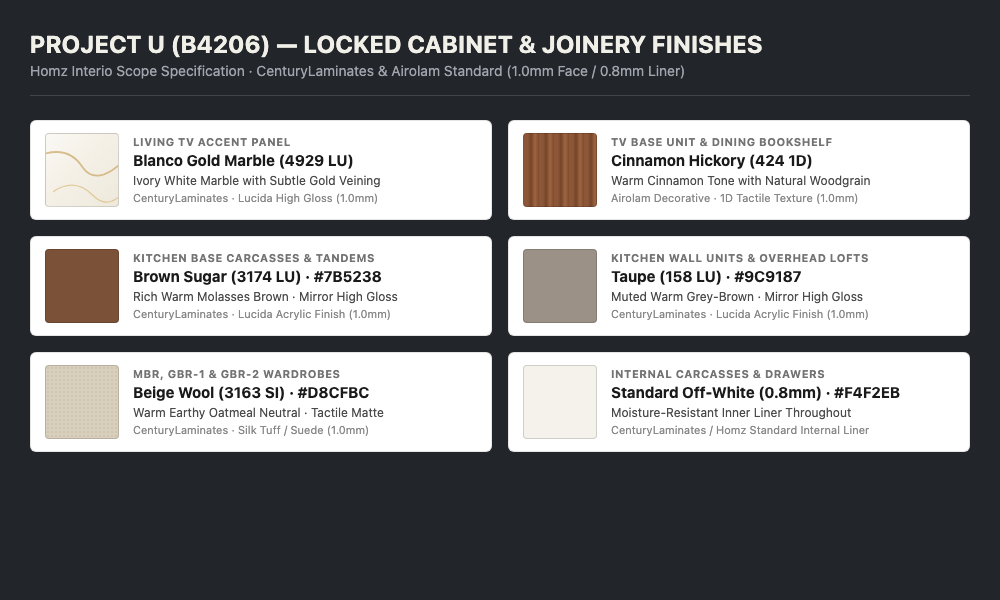
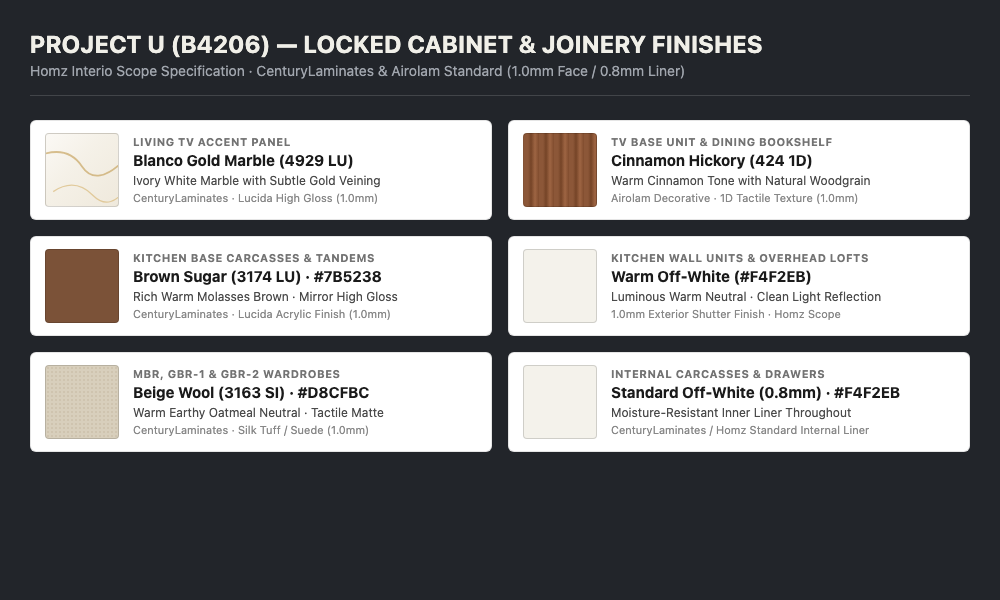
sync: update Project U notes (2026-10-17 00:17:49)

Changed region(s): [[0.496, 0.39, 0.899, 0.54]]

diff --git a/content/u-setup-interiors.md b/content/u-setup-interiors.md
@@ -55,9 +55,11 @@ updated: 2026-10-16
 
 | Room / Zone | Recommended Tone & Code (Asian Paints) | Swatch (Color) | Interior Designer Rationale & Cabinet Synergy |
 | :--- | :--- | :--- | :--- |
-| **Whole-Home Base Envelope**<br>(Foyer, Living, Dining, Drawing, Master Bed, Study BR-01, Gurudwara BR-03) | **Morning Glory (0765)**<br>(`#F0EFE8`, LRV 74) | <img src="assets/swatches/swatch-living-dining.png" alt="Morning Glory" width="140"> | Primary Japandi neutral canvas. Unifies all social and private spaces, harmonizes with `424 Cinnamon Hickory`, `3163 Beige Wool`, and Persian carpet. Replaces dark accents with continuous light reflection. |
-| **Kitchen & Utility** | **Morning Glory (0765)**<br>(`#F0EFE8`, LRV 74) · Royale Shyne | <img src="assets/swatches/swatch-living-dining.png" alt="Morning Glory" width="140"> | Identical color formula in high-scrub formulation. Cleanly links `3174 Brown Sugar` base and `158 Taupe` lofts without color breaks. |
+| **Whole-Home Base Envelope**<br>(Foyer, Living, Dining, Drawing, Master Bed, Study BR-01, Gurudwara BR-03) | **Morning Glory (0765)**<br>(`#F0EFE8`, LRV 74) | <img src="assets/swatches/swatch-living-dining.png" alt="Morning Glory" width="140"> | Primary Japandi neutral canvas in Royale Luxury Emulsion (Soft Matte). Unifies all social and private spaces, harmonizes with `424 Cinnamon Hickory`, `3163 Beige Wool`, and Persian carpet.<br><br>**Living Room Accent Note:** If you want subtle depth without coarse grit, apply a smooth, burnished limewash or mineral Roman clay. This gives a delicate, cloudy suede feel with zero grit, zero glare, and zero dust trapping. |
+| **Kitchen & Utility** | **Morning Glory (0765)**<br>(`#F0EFE8`, LRV 74) · Royale Shyne | <img src="assets/swatches/swatch-living-dining.png" alt="Morning Glory" width="140"> | Identical color formula in high-scrub formulation. Cleanly links `3174 Brown Sugar` base and `#F4F2EB` off-white overheads/lofts without color breaks. |
 | **BR-02 (Kabir's Room)** | **Misty Breeze (8307)**<br>(`#B2C2CC`, LRV 54) | <img src="assets/swatches/swatch-kabir-br02.png" alt="Misty Breeze" width="140"> | Light, desaturated coastal grey-blue. Dedicated playful accent paired with light oak joinery; washable Teflon emulsion. |
+
+* **Living & Drawing Wall Finish Guidance:** Morning Glory (0765) in Royale Luxury Emulsion (Soft Matte) is the default recommendation. If you want subtle depth without coarse grit on the living or drawing walls, apply a smooth, burnished limewash or mineral Roman clay in the identical tone. This gives a delicate, cloudy suede feel with zero grit, zero glare, and zero dust trapping.
 
 ---
 
@@ -72,7 +74,7 @@ updated: 2026-10-16
 | **Living TV Unit & Panel** | Base: `424 1D Cinnamon Hickory` | <img src="assets/swatches/laminate-424-cinnamon-hickory.png" alt="Cinnamon Hickory" width="115"> <img src="assets/swatches/laminate-4929-blanco-gold.png" alt="Blanco Gold Marble" width="115"> | Panel: `4929 LU Blanco Gold Marble` + Sofa-back texture paint | Soft-close drawers; concealed cable raceway for Sonos Arc Ultra | Route 50mm PVC conduit behind `4929 LU` panel before mounting; exposed HDMI/power cords ruin marble laminate visual. |
 | **Dining Vanity, Bookshelf & Walk-in** | Bookshelf: `424 1D Cinnamon Hickory` · Walk-in: `3163 SI Beige Wool` | <img src="assets/swatches/laminate-424-cinnamon-hickory.png" alt="Cinnamon Hickory" width="115"> <img src="assets/swatches/laminate-3163-beige-wool.png" alt="Beige Wool" width="115"> | Common vanity with **Robot Vacuum bay**; room-matched hidden doors | Zero-threshold bottom garage (`≥150mm` height + internal 6A socket) | Standard vanity plinths trap robot vacuums; omit bottom toe-kick at dock bay. Use 4× SS304 ball-bearing hinges on heavy hidden doors to prevent sagging. |
 | **Kitchen Base & Tandem Drawers** | `3174 LU Brown Sugar` (Base carcasses) | <img src="assets/swatches/laminate-3174-brown-sugar.png" alt="Brown Sugar" width="115"> | Light-shade Indian granite worktop (owner-sourced) | 2 tandem below hob + 3 drawers each side of sink + 1 tandem replacing wicker | Homz quotes normal-close channels as standard; mandate soft-close 50–70kg tandem runners in contract rider. Drill rear air vents in potato/onion drawer. |
-| **Kitchen Wall Units & Lofts** | `158 LU Taupe` (Overheads & lofts) | <img src="assets/swatches/laminate-158-taupe.png" alt="Taupe" width="115"> <img src="assets/swatches/laminate-08-off-white.png" alt="Off-White" width="115"> | `0.8 mm Off-White` internal laminate | Soft-close hinges on wall units; standard stays on lofts | Seal sink-base floor panel with aluminum foil tape / PVC mat to protect `0.8 mm` liner from RO/trap drips. |
+| **Kitchen Wall Units & Lofts** | **Warm Off-White (`#F4F2EB`)** (Overheads & lofts) | <img src="assets/swatches/laminate-08-off-white.png" alt="Off-White #F4F2EB" width="115"> | `0.8 mm Off-White` internal laminate | Soft-close hinges on wall units; standard stays on lofts | Seal sink-base floor panel with aluminum foil tape / PVC mat to protect `0.8 mm` liner from RO/trap drips. |
 | **Master Bedroom (MBR)** | `3163 SI Beige Wool` (Wardrobes & Dresser) | <img src="assets/swatches/laminate-3163-beige-wool.png" alt="Beige Wool" width="115"> | Tall dresser with full-height dome mirror + Bed-back texture paint | Soft-close hinges; internal tension straightener on tall doors | Anchor full-height dresser mirror to 12mm BWP ply backing with neutral-cure silicone. |
 | **GBR / BR-01 (Study Room)** | `3163 SI Beige Wool` | <img src="assets/swatches/laminate-3163-beige-wool.png" alt="Beige Wool" width="115"> | Single shutter shifted toward study unit + dome mirror above | Soft-close hinges; concealed wire pass-through at study edge | Ensure shifted shutter clears standing desk travel range (72–120 cm height) without collision. |
 | **GBR-2 / BR-03 (Gurudwara)** | `3163 SI Beige Wool` | <img src="assets/swatches/laminate-3163-beige-wool.png" alt="Beige Wool" width="115"> | Gold frame with clear glass middle shutter | Soft-close hinges; dust seal strip on glass frame | Toughened 5mm clear glass required inside gold profile to prevent rattle during balcony cross-breeze. |

diff --git a/content/u-setup-kitchen.md b/content/u-setup-kitchen.md
@@ -17,7 +17,7 @@ updated: 2026-10-16
 
 | Need                              | Tier 1: High-Quality VFM                                                                                                                     | Tier 2: High-Quality Unconstrained                                                                                                                                                                                                                                 | Top Failure Mode & Reddit Insight                                                                                                                                                                               |
 | :-------------------------------- | :------------------------------------------------------------------------------------------------------------------------------------------- | :----------------------------------------------------------------------------------------------------------------------------------------------------------------------------------------------------------------------------------------------------------------- | :-------------------------------------------------------------------------------------------------------------------------------------------------------------------------------------------------------------- |
-| **Cabinetry & Drawer Casework**   | Homz Locked Palette: `3174 LU Brown Sugar` Base + `158 LU Taupe` Wall/Lofts (`0.8mm` off-white liner, 9 tandem drawers, soft-close upgrade) | [FENIX NTM Base + Overheads](https://www.fenixforinteriors.com) (Thermal healing nano-tech, Blum LEGRABOX 70kg, SERVO-DRIVE, ~₹3.40L) | Homz defaults to normal-close channels; enforce soft-close tandem runners in rider. Tandem drawer replacing wicker basket needs rear ventilation holes so onions do not rot. |
+| **Cabinetry & Drawer Casework**   | Homz Locked Palette: `3174 LU Brown Sugar` Base + **Warm Off-White (`#F4F2EB`)** Wall/Lofts (`0.8mm` off-white liner, 9 tandem drawers, soft-close upgrade) | [FENIX NTM Base + Overheads](https://www.fenixforinteriors.com) (Thermal healing nano-tech, Blum LEGRABOX 70kg, SERVO-DRIVE, ~₹3.40L) | Homz defaults to normal-close channels; enforce soft-close tandem runners in rider. Tandem drawer replacing wicker basket needs rear ventilation holes so onions do not rot. |
 | **Hob (Hybrid)**                  | [Häfele Domino (Altius FS 230 Gas + Bella 30 Induction)](https://www.hafeleindia.com/en/p/domino-hob/53866610/) + Joining Rail (~₹54k)       | [Electrolux EHH957BE (Single-chassis 4-zone)](https://www.electrolux.in/appliances/hobs/ehh957be/) (~₹1.12L)                                                                                                                                                       | Single PCB failure disables all cooking on unibody hybrids; independent domino units isolate electrical and gas circuits entirely.                                                                              |
 | **Chimney (90cm BLDC)**           | [Elica FLAT FL 900 MAX BLDC](https://www.amazon.in/dp/B0FBWNF6D1) (₹17,249)                                                                  | [Bosch DWB97LM50I Serie 6](https://www.bosch-home.in/product/DWB97LM50I) (₹42,000)                                                                                                                                                                                 | Filterless centrifugal traps capture grease without mesh scrubbing, but thermal auto-clean is not magic: heavy tadka oil still polymerizes on blower blades over 12 months; requires rigid ducting and annual solvent service. Local franchise service responsiveness varies. |
 | **Under-sink RO**                 | [AO Smith Z2 Pro UTC](https://www.amazon.in/dp/B0HC7HFM66) (₹23,990)                                                                         | [3M DWS2000T / Safe Kitchen](https://www.3mindia.in) (~₹45,000)                                                                                                                                                                                                    | OEM proprietary cartridge lock-in; un-buffered bore grit destroys RO membrane. Mandate ₹500 external spun sediment candle.                                                                                      |
@@ -45,7 +45,7 @@ updated: 2026-10-16
   * Heavy heating elements (dryer, oven, induction) must never run through extension boards or shared multi-plugs.
 * **Joinery & Cabinetry (Homz):**
   * Locked Drawer Layout: 2 tandem drawers below hob + 3 drawers on either side of sink unit (6 total) + 1 ventilated tandem drawer replacing wicker basket.
-  * Locked Laminate Finishes: Base units in `3174 LU Brown Sugar`; Wall units and lofts in `158 LU Taupe`; internal laminate `0.8 mm off-white` (add waterproof mat inside sink cabinet).
+  * Locked Laminate Finishes: Base units in `3174 LU Brown Sugar`; Wall units and lofts in **Warm Off-White (`#F4F2EB`)**; internal laminate `0.8 mm off-white` (add waterproof mat inside sink cabinet).
   * Refrigerator niche must provide 594 mm counter depth + 50 mm rear ventilation clearance.
   * Rigid 6" circular chimney duct with $\le 2$ sweeping 90° bends; fit exterior gravity flap on utility louvre.
   * Laundry stack must stand directly on structural flooring, never on an elevated hollow wooden plinth. Secure heat-pump dryer to washer using the official Bosch stacking kit with pull-out laundry sorting shelf (WTZ27400 / WTZ11400) and anti-vibration foot pads.

diff --git a/content/u-setup-joinery.md b/content/u-setup-joinery.md
@@ -18,7 +18,7 @@ updated: 2026-10-16
 | Need | Tier 1: High-Quality VFM | Tier 2: High-Quality Unconstrained | Top Failure Mode & Reddit Insight |
 | :--- | :--- | :--- | :--- |
 | **Carcass Plywood (Whole Flat)** | [Century Sainik 710 BWP](https://www.centuryply.com/sainik-710) (IS 710 marine grade, 8-yr warranty, ~₹105/sq ft) | [Century Club Prime BWP](https://www.centuryply.com/club-prime) (Calibrated, E0 low emission, 30-yr warranty, ~₹155/sq ft) | Unscrupulous contractors quoting Club Prime and substituting unbranded commercial ply or MR grade; verify CenturyPromise QR code on every delivered sheet and retain stamped offcuts. |
-| **Shutter & Internal Laminates** | **Homz Locked Codes:** `3163 SI`, `3174 LU`, `158 LU`, `424 1D`, `4929 LU` (1.0mm exterior + `0.8mm` off-white liner) | [Greenlam AFX / FENIX NTM](https://www.greenlam.co.in) + **1.0mm BWP Internal Liner** (~₹4,500/sheet) | `0.8mm` internal liner swells if wet; line kitchen sink base and dining vanity floor with a 1.5mm waterproof PVC drip mat and silicone-seal all plumbing cutouts. |
+| **Shutter & Internal Laminates** | **Homz Locked Codes:** `3163 SI`, `3174 LU`, `Warm Off-White (#F4F2EB)`, `424 1D`, `4929 LU` (1.0mm exterior + `0.8mm` off-white liner) | [Greenlam AFX / FENIX NTM](https://www.greenlam.co.in) + **1.0mm BWP Internal Liner** (~₹4,500/sheet) | `0.8mm` internal liner swells if wet; line kitchen sink base and dining vanity floor with a 1.5mm waterproof PVC drip mat and silicone-seal all plumbing cutouts. |
 | **Cabinet Concealed Hinges** | [Hettich Sensys 8645i Soft-Close](https://www.hettich.com/in/en/products/hinges/sensys) (Integrated silent damping, 110° opening, ~₹380 ea) | [Blum CLIP top BLUMOTION 110°](https://www.blum.com/in/en/products/hingesystems/clip-top-blumotion/overview/) (71B3550, tool-free clip, 15-yr warranty, ~₹550 ea) | First-copy duplicate hinges flooding local hardware markets; insist on authorized dealer invoices to guarantee 200,000-cycle dampener life. |
 | **Kitchen Tandem Drawers (×9)** | [Hettich InnoTech Atira Soft-Close Tandem](https://www.hettich.com/in/en/products/drawer-systems/innotech-atira) (Quadro V6 Silent System, 30–50kg, ~₹4,200/drawer) | [Blum LEGRABOX Pure Soft-Close](https://www.blum.com/in/en/products/boxsystems/legrabox/overview/) (Slim 12.8mm metallic sides, 40–70kg dynamic load, ~₹8,500/drawer) | Homz quotes normal-close channels as baseline; lock soft-close tandem runners into rider for all 9 kitchen drawers (2 hob, 6 sink, 1 wicker-replacement). |
 | **Hidden Doors (Puja & Store)** | **4× Heavy-Duty SS 304 Ball-Bearing Butt Hinges** (4×1.5×3mm, ₹1,600/door) + Magnetic Push Catch | [Simonswerk Tectus / Häfele 3D Concealed Hinges](https://www.hafeleindia.com) (80–120kg load, zero visible barrel, ~₹14,500/door) | Cladding flush doors with 18mm ply + `3163 SI` laminate adds ~20kg, causing 3-hinge doors to sag and scrape floor tiles; mandate 4 hinges or 3D tectonic hinges. |

diff --git a/content/index.md b/content/index.md
@@ -29,7 +29,7 @@ This folder is the master workspace for all decisions and execution planning rel
 |---|---|---|---|---|---|
 | OLY-01 | **Purchase & Registration** | `[STATE: COMPLETED]` | Samar | Registered 31 Aug 2026 | 2026-08-31 |
 | OLY-02 | **Turnkey Interior Contractor** | `[STATE: DECIDED]` | Samar & Sonia | Homz Interio (₹18L incl. GST with contract rider) | 2026-10-15 |
-| OLY-03 | **Modular Kitchen & Built-In Appliances** | `[STATE: DECIDED]` | Samar & Sonia | Light granite (owner-sourced), `3174 LU`/`158 LU` laminates, 9 tandem drawers, no dishwasher | 2026-11-15 |
+| OLY-03 | **Modular Kitchen & Built-In Appliances** | `[STATE: DECIDED]` | Samar & Sonia | Light granite (owner-sourced), `3174 LU` / `#F4F2EB` off-white laminates, 9 tandem drawers, no dishwasher | 2026-11-15 |
 | OLY-04 | **Smart Home & Smart Switches** | `[STATE: PLANNED]` | Samar | Sonoff MINIR4M Matter relays behind existing plates + Echo Dot Max | 2026-11-15 |
 | OLY-05 | **Whole-Home Mesh WiFi & Audio** | `[STATE: PLANNED]` | Samar | Cat6 to 3 ceiling AP spots (2 APs at move-in) + Sonos Arc Ultra | 2026-12-01 |
 | OLY-06 | **Furniture & Living Spaces** | `[STATE: PLANNED]` | Samar & Sonia | Solid timber makers (Phantom Hands, Alankaram, Magari, Spin, Orange Tree) + IKEA KIVIK/HYLTARP | 2026-12-15 |
